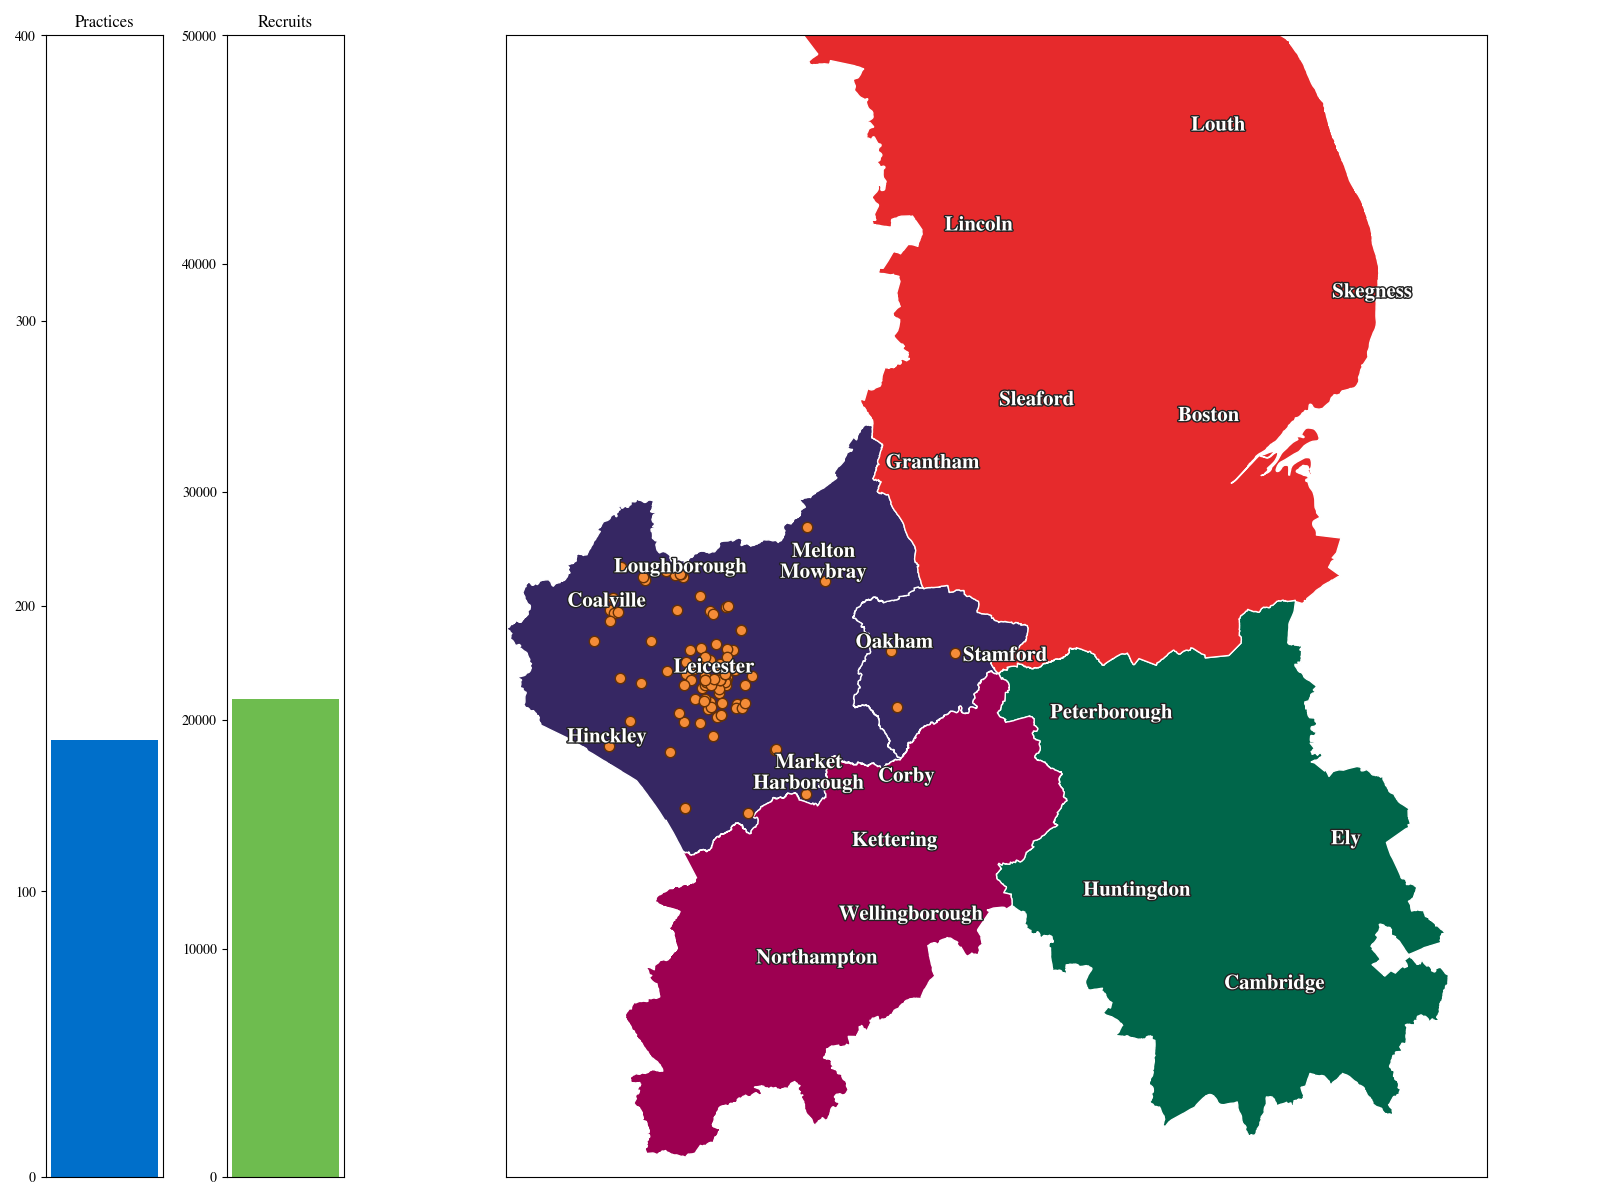
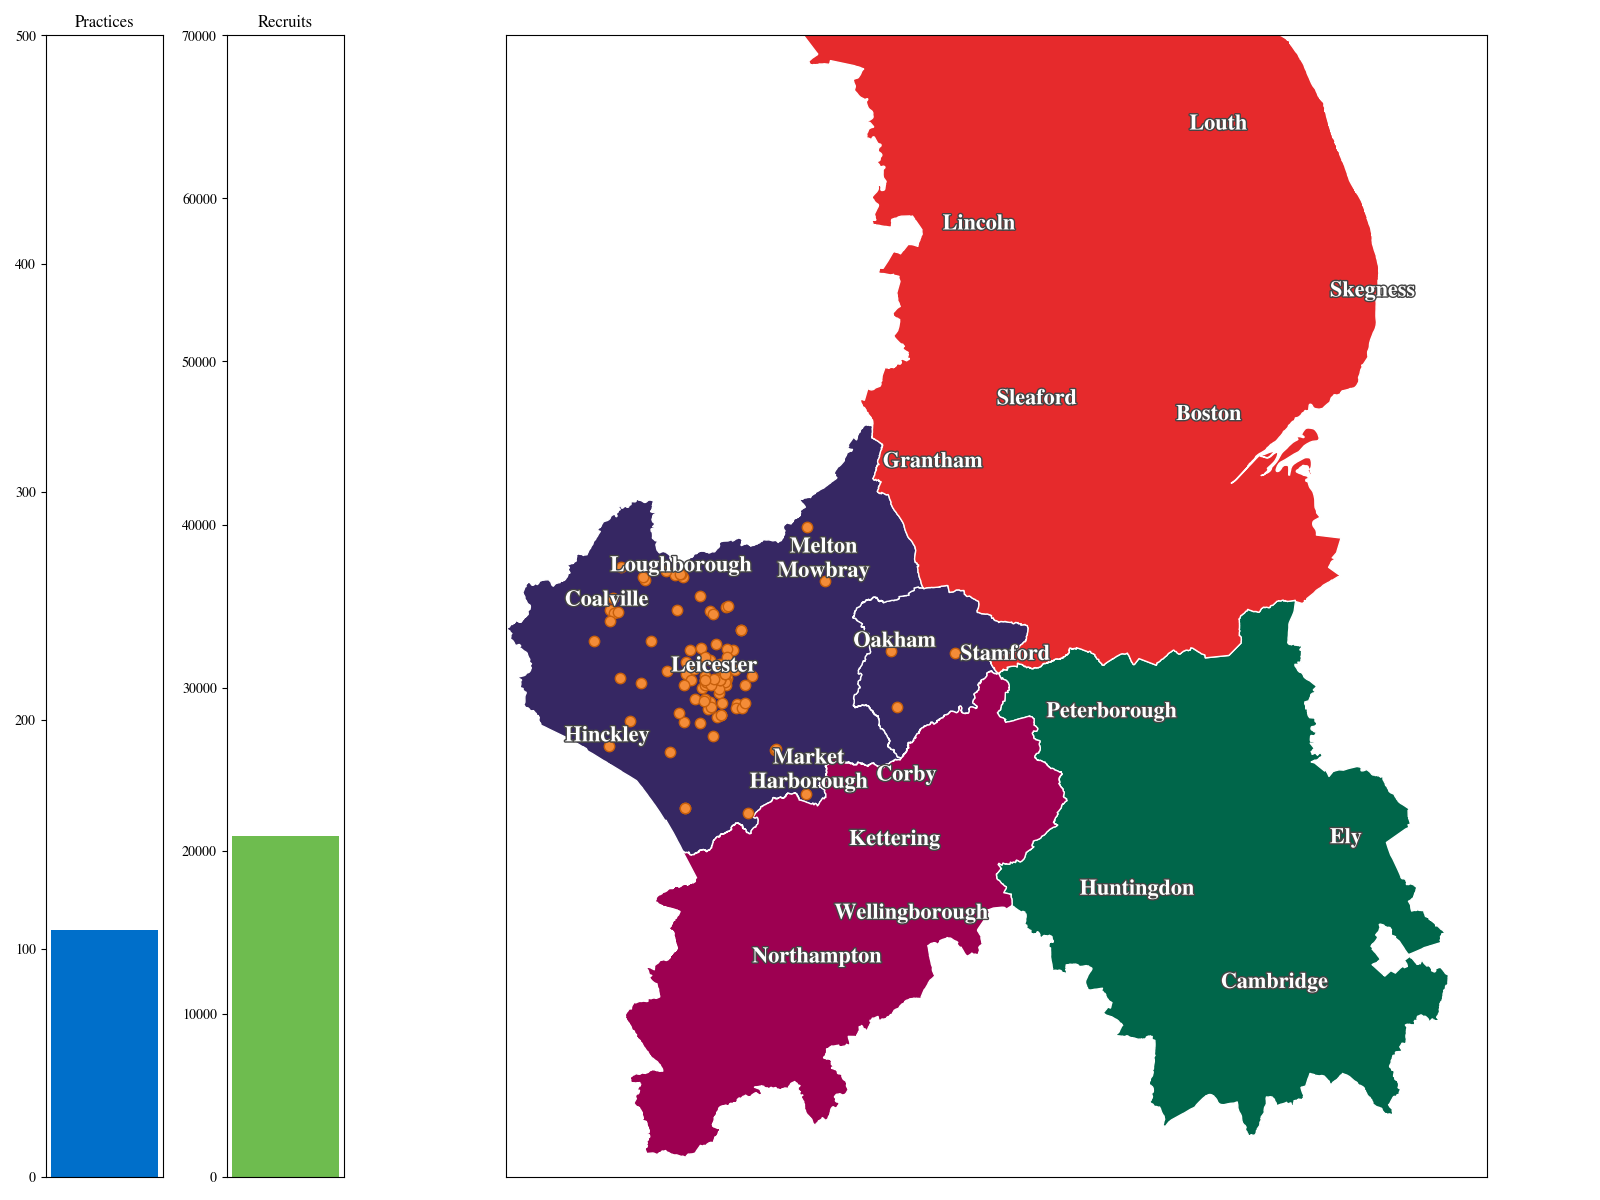
Stacked

diff --git a/practices.py b/practices.py
@@ -12,7 +12,7 @@ from matplotlib.colorbar import ColorbarBase
 from matplotlib import gridspec
 import matplotlib.patheffects as PathEffects
 
-def darken_color(color, amount=0.5):
+def darken_color(color, amount=0.7):
     """
     Lightens the given color by multiplying (1-luminosity) by the given amount.
     Input can be matplotlib color string, hex string, or RGB tuple.
@@ -29,7 +29,7 @@ def darken_color(color, amount=0.5):
     except:
         c = color
     c = colorsys.rgb_to_hls(*mc.to_rgb(c))
-    return colorsys.hls_to_rgb(c[0], amount * (1 - c[1]), c[2])
+    return colorsys.hls_to_rgb(c[0], amount * c[1], c[2])
   
 
 def display_practices(df, color):
@@ -39,7 +39,7 @@ def display_practices(df, color):
 
 year = 2018
 include_potential = True
-output_filename = 'genvasc_potential'
+output_filename = 'genvasc_2020'
 
 plt.rcParams["font.family"] = "norasi"
 fig = plt.figure(figsize=(16, 12))
@@ -56,9 +56,18 @@ df_recruitment = df_recruitment.set_index('year')
 
 ax_recruits = plt.subplot(gs[1])
 
+recruit_count = df_recruitment.loc[year]['cum_recruited']
+potential_recruits = 0
+
+if include_potential:
+  potential_linc_cam_in_2_years = 8000
+  actual_llr_northants_in_last_year = 8000
+  potential_recruits += potential_linc_cam_in_2_years + (actual_llr_northants_in_last_year * 2)
+
 plt.title("Recruits")
-plt.bar(('Recruitment'), [df_recruitment.loc[year]['cum_recruited']], align='center', color='#6EBC4F')
-plt.yticks(np.arange(0, 55_000, step=10_000))
+plt.bar(('Recruits'), recruit_count, align='center', color='#6EBC4F')
+plt.bar(('Recruits'), potential_recruits, bottom=recruit_count, align='center', color=darken_color('#6EBC4F'))
+plt.yticks(np.arange(0, 75_000, step=10_000))
 plt.xticks([])
 
 ax_map = plt.subplot(gs[2])
@@ -96,34 +105,37 @@ for index, row in df_towns.iterrows():
     x,
     y,
     row['name'].title().replace(' ', '\n'),
-    fontsize=15,
+    fontsize=16,
     horizontalalignment='center',
     verticalalignment='bottom',
     color='#FFFFFF',
     weight='bold'
   )
-  txt.set_path_effects([PathEffects.withStroke(linewidth=2, foreground='#222222')])
+  txt.set_path_effects([PathEffects.withStroke(linewidth=2, foreground='#444444')])
 
 
 df_genvasc_practices = pd.read_csv('data/genvasc_practices_geo.csv')
-df_all_practices = df_genvasc_practices
 df_cam = pd.read_csv('data/cambridgeshire_geo.csv')
 df_linc = pd.read_csv('data/our_lincolnshire_geo.csv')
 
 df_genvasc_practices = df_genvasc_practices.loc[df_genvasc_practices['year'] <= year]
 
+practice_count = len(df_genvasc_practices.index)
+potential_practice_count = 0
+
 display_practices(df_genvasc_practices, '#F48C38')
 
 if include_potential:
-  df_all_practices = pd.concat([df_genvasc_practices, df_cam, df_linc], sort=False)
+  potential_practice_count = (len(df_cam.index) + len(df_cam.index)) * 0.7
   display_practices(df_cam, '#00AADD')
   display_practices(df_linc, '#DDDD00')
 
 ax_practices = plt.subplot(gs[0])
 
 plt.title("Practices")
-plt.bar(('Recruitment'), df_all_practices.count(), align='center', color='#006FCA')
-plt.yticks(np.arange(0, 500, step=100))
+plt.bar(('Practices'), practice_count, align='center', color='#006FCA')
+plt.bar(('Practices'), potential_practice_count, bottom=practice_count, align='center', color=darken_color('#006FCA'))
+plt.yticks(np.arange(0, 550, step=100))
 plt.xticks([])
 
 plt.tight_layout()
